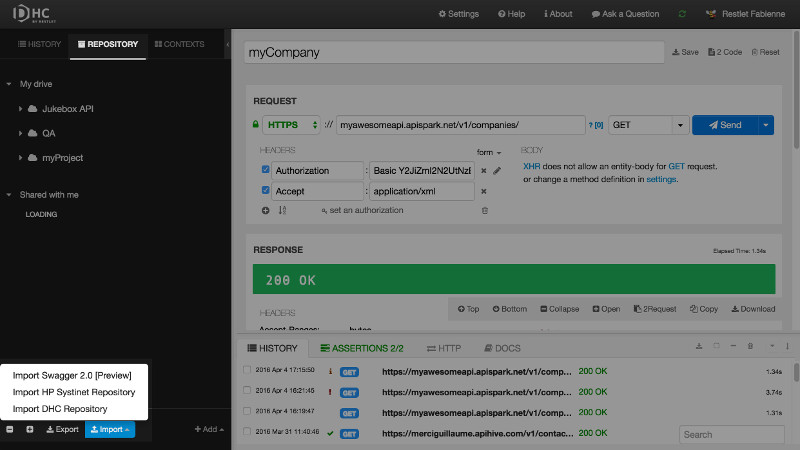
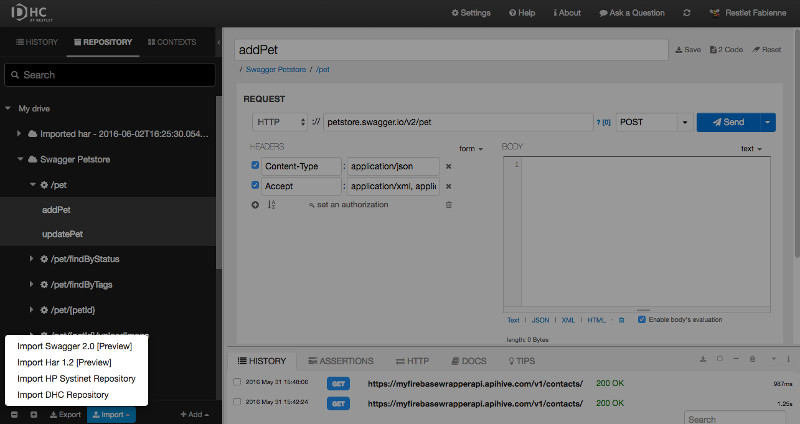
DHC_Har import

diff --git a/modules/com.restlet/tech-doc/dhc/guide/03_drive/04_import-export/01_import-projects.md b/modules/com.restlet/tech-doc/dhc/guide/03_drive/04_import-export/01_import-projects.md
@@ -31,6 +31,30 @@ Click **Import**.
 
 ![Swagger Import](images/swagger-import-via-url.jpg "Swagger Import")
 
+# Import Har 1.2
+
+You can also import a definition in HAR format. HAR (HTTP Archive format) is a JSON-formatted archive file format for logging of a web browser's interaction with a site.
+
+HAR import allows users to import a full set of requests easily using the HAR format.
+
+HAR is used by the Chrome browser to export requests executed from the browser.
+
+>**Note:** This feature is available from the Solo plan.
+
+## HAR import example
+
+You may be willing to import the requests from a webpage. Let's try it with our restlet.com webpage:  
+
+From Chrome's **Network** tab, right click and select **Copy all as HAR**.
+
+![Copy all as HAR](images/copy-all-as-har.jpg "Copy all as HAR")
+
+From DHC's **Repository** tab, click **Import** and select **Import Har 1.2**.  
+Select **Raw text** as a **Source**.  
+Paste your clipboard content in the text area below and click **Import**.
+
+![imported HAR](images/imported-har.jpg "imported HAR")
+
 # Import HP Systinet Repository
 
 DHC makes an <a href="https://hpln.hp.com/group/systinet?utm_source=DHC" target="_blank">HP Systinet</a> integration available.
